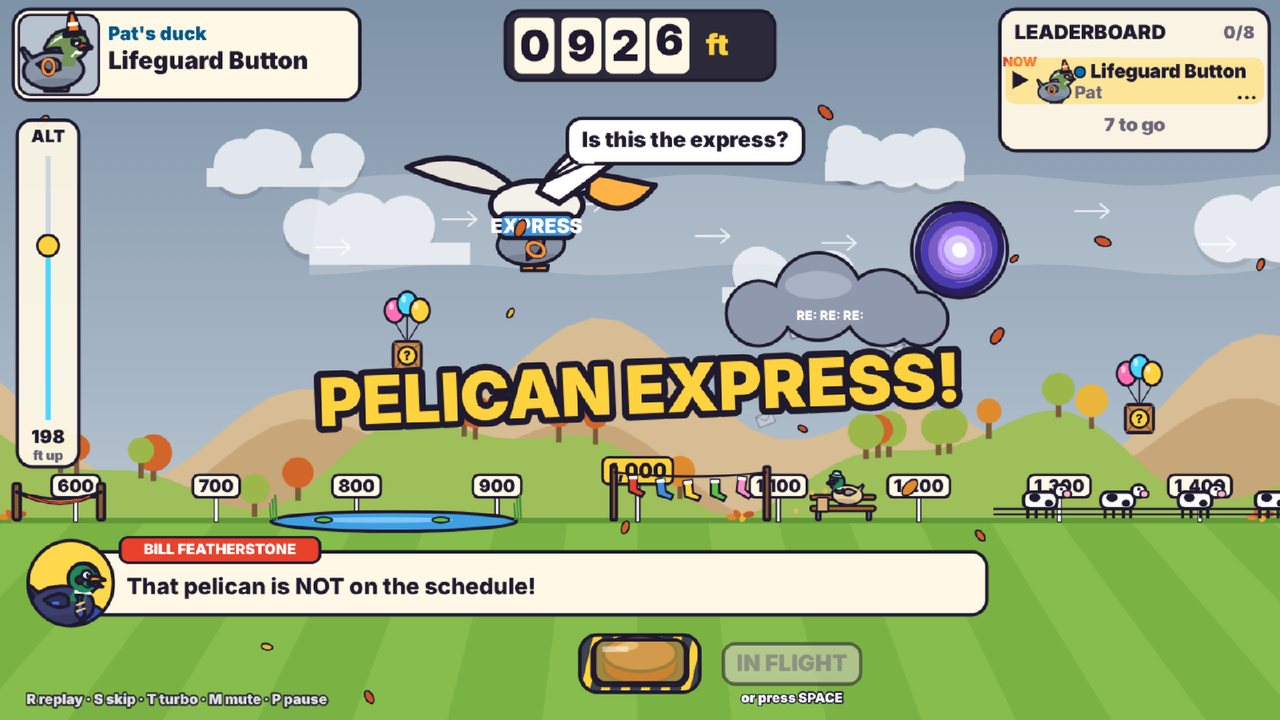
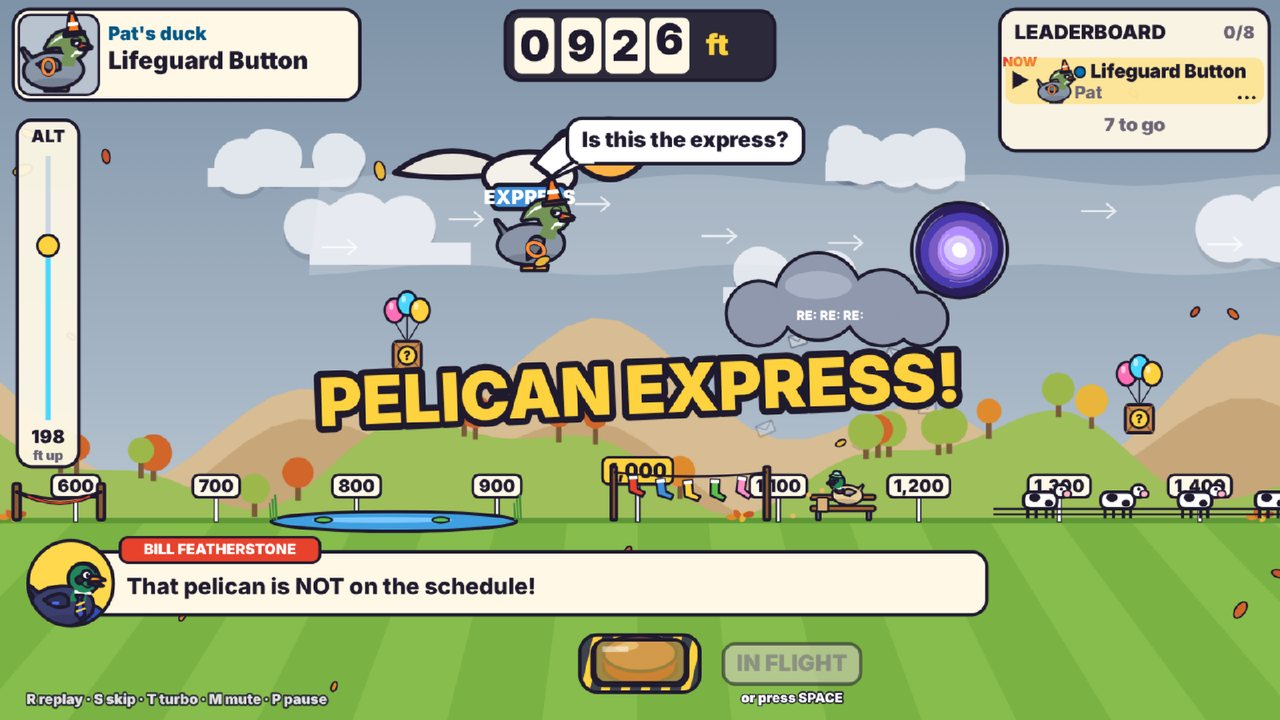
Fix bugs from an independent review; adaptive quality; shouty scream bubble
- R during a live flight no longer discards the landing (replay waits until it lands)
- Late player added while a bonus shot is loaded now flies, and the bonus isn't repeated
- Putting back a removed player restores the same duck instead of a '(2)' copy
- Removing the on-deck duck during a result no longer cuts the result short
- Importing data mid-show returns to the title instead of a frozen screen
- The first countdown beep no longer stacks several times
- Turbo pressed mid-countdown still aims the barrel at the rolled angle
- Bill's pick is fixed once announced (late adds/removals can't change it)
- Visiting the Waddle of Fame no longer makes the next show skip its podium
- Adaptive quality: lower internal resolution and fewer particles when frames drop
- Scream bubble no longer grows a giant starburst; refreshed README screenshots

Claude-Session: https://claude.ai/code/session_01L5ntNDsEwxRWUo6xWcqN4w

diff --git a/index.html b/index.html
@@ -3658,6 +3658,7 @@ function importDataFromText(text) {
     S.race = null;
     Toast.show('Imported ' + n + ' sections. ' + S.history.length + ' races in history.');
     if (cur && cur.stage !== 'done') Toast.show('Imported. A saved show can be resumed from the title screen.', 2600);
+    Modal.close(); go('title');
     return true;
   } catch (e) { Toast.show('Import failed: ' + e.message, 3000); return false; }
 }
@@ -3917,17 +3918,20 @@ function addLatePlayer(name, team) {
   const R = S.race;
   if (!R) return;
   const key = personKey(name);
+  const loadedNow = S.screen === 'launch' && L.q && R.queue[R.idx] === L.q && L.phase !== 'idle' && L.phase !== 'result';
+  const insertAt = () => { const fb = R.queue.findIndex((q, i) => q.bonus && i >= R.idx); return fb >= 0 ? Math.max(fb, R.idx + (loadedNow ? 1 : 0)) : R.queue.length; };
+  // putting back someone who was removed by mistake: same person, same duck
+  const back = R.players.findIndex(p => p.key === key && p.out && !R.results[p.key]);
+  if (back >= 0) { R.players[back].out = false; R.queue.splice(insertAt(), 0, { p: back, s: 0 }); saveRace(); Toast.show(R.players[back].name + "'s duck is back in and will launch last!", 2600); return; }
   let nm = name, i = 2;
   while (R.players.some(p => p.key === personKey(nm))) nm = name + ' (' + (i++) + ')';
-  if (R.players.length >= 40) { Toast.show('The cannon tops out at 40 ducks.'); return; }
+  if (activePlayers().length >= 40) { Toast.show('The cannon tops out at 40 ducks.'); return; }
   const rer = loadRerolls(R.day);
   const pl = makePlayer(nm, team, rer[personKey(nm)] || 0, nameCtx(null), R.day);
   pl.late = true;
   R.players.push(pl);
   // launches last among the main round (before any bonus shots)
-  const firstBonus = R.queue.findIndex(q => q.bonus);
-  const entry = { p: R.players.length - 1, s: 0 };
-  if (firstBonus >= 0) R.queue.splice(Math.max(firstBonus, R.idx), 0, entry); else R.queue.push(entry);
+  R.queue.splice(insertAt(), 0, { p: R.players.length - 1, s: 0 });
   if (!S.roster.some(p => personKey(p.name) === personKey(nm))) { S.roster.push({ id: 'p' + hex8(hash(nm, Date.now())), name: nm, team, checked: true, ammo: 0 }); saveRoster(); }
   rememberNames(R.day, [pl.duck.name]);
   if (S.screen === 'reveal') { RV.flipped.push(true); RV.flipAt.push(0); }
@@ -3946,7 +3950,7 @@ function removePlayer(pi) {
   const R = S.race;
   if (!canRemoveNow(pi)) return false;
   const pl = R.players[pi];
-  const wasLoaded = R.queue[R.idx] && R.queue[R.idx].p === pi;
+  const wasLoaded = S.screen === 'launch' && L.q && R.queue[R.idx] === L.q && L.q.p === pi && (L.phase === 'intro' || L.phase === 'ladder' || L.phase === 'armed');
   R.queue = R.queue.slice(0, R.idx).concat(R.queue.slice(R.idx).filter(q => q.p !== pi));
   pl.out = true;
   saveRace();
@@ -4033,6 +4037,7 @@ function teamOfDay(R) {
   return Object.assign(best, { name: teams()[best.team].name, color: teams()[best.team].color, shape: teams()[best.team].shape });
 }
 function billPickKey(R) {
+  if (R.pick !== undefined) return R.pick && R.players.some(p => p.key === R.pick && !p.out) ? R.pick : null;
   const act = R.players.filter(p => !p.out);
   if (act.length < 3) return null;
   return act[hash(R.seed, 'billpick') % act.length].key;
@@ -4123,6 +4128,9 @@ function loadDuck(first) {
   const R = S.race, q = curQ();
   if (!q) { toResults(); return; }
   const go2 = () => {
+    const q2 = curQ();
+    if (!q2) { if (standings().length) { L.phase = 'idle'; setBig('SEE RESULTS', true); } return; }
+    const q = q2;
     L.q = q; L.pi = q.p; L.pl = R.players[q.p];
     L.tl = null; L.pb = null; L.result = null; L.replay = false; L.photo = false; L.drum = false; L.fuseOut = false; L.boomed = false;
     L.gauge = { a: 45, p: 85, locked: false, lockAt: 0 };
@@ -4245,6 +4253,7 @@ function rateAt(pb, t) { for (const s of pb.segs) if (t < s.b) return s.r; retur
 
 function startFlight(replay) {
   const tl = L.tl;
+  if (!replay) { L.barrel = tl.angle; L.gauge.locked = true; L.gauge.a = tl.angle; L.gauge.p = Math.round(tl.power * 100); }
   const lead = leaderEntry();
   L.photo = !replay && lead && S.race.players.length > 1 && Math.abs(tl.final - lead.dist) < 25 && lead.pl.key !== L.pl.key;
   if (replay) L.photo = L.result && L.result.photo;
@@ -4464,6 +4473,8 @@ function skipFlight() {
 }
 function replayFlight() {
   if (!L.tl || !(L.phase === 'idle' || L.phase === 'result' || L.phase === 'flight')) return;
+  // a duck that's still in the air hasn't been scored yet: replay only once it has landed
+  if (L.phase === 'flight' && !L.replay) { Toast.show('Replay is ready once this duck lands'); return; }
   if (L.phase === 'result') { setPhase('idle'); }
   Caps.reset(); Particles.clear();
   L.cam = { cx: 30, gy: GROUND_Y, z: 5.2 };
@@ -4505,7 +4516,6 @@ function updateLaunch(dt) {
       const T = 3 * pace;
       const tick = Math.floor(L.pt / (T / 3));
       if (tick !== L.ticks && tick < 3) { L.ticks = tick; SFX.play('count', 3 - tick); }
-      if (L.pt < 0.05) L.ticks = -1;
       const lockAt = T * 2 / 3 + 0.15 * pace;
       if (!L.gauge.locked && L.pt >= lockAt) { L.gauge.locked = true; L.gauge.a = L.tl.angle; L.gauge.p = Math.round(L.tl.power * 100); L.barrelFrom = L.barrel; L.lockT = L.pt; SFX.play('crank', 3); }
       if (L.gauge.locked) L.barrel = lerp(L.barrelFrom, L.tl.angle, easeInOut((L.pt - L.lockT) / 0.3));
@@ -4824,8 +4834,13 @@ function drawScream(ctx, x, y, text, rt) {
   const w = ctx.measureText(text).width + 40, h = 58;
   const bx = clamp(x + 40, 20, 1480 - w), by = clamp(y - 120, 130, 760);
   ctx.beginPath(); ctx.moveTo(bx + 30, by + h - 4); ctx.lineTo(clamp(x + 10, bx, bx + w), by + h + 30); ctx.lineTo(bx + 60, by + h - 4); ctx.closePath(); fillStroke(ctx, '#fff', 5);
-  burstPath(ctx, bx + w / 2, by + h / 2, w * 0.56, w * 0.48, 14, rt * 2); ctx.fillStyle = '#fff'; ctx.fill();
-  rr(ctx, bx, by, w, h, 20); fillStroke(ctx, '#ffffff', 5);
+  // a shouty bubble: small spikes along the edges, red outline
+  ctx.beginPath();
+  const spikes = Math.max(6, Math.round(w / 34));
+  for (let i = 0; i <= spikes; i++) { const xx = bx + (w * i) / spikes; ctx.lineTo(xx, by - (i % 2 ? 12 : 2)); }
+  for (let i = spikes; i >= 0; i--) { const xx = bx + (w * i) / spikes; ctx.lineTo(xx, by + h + (i % 2 ? 12 : 2)); }
+  ctx.closePath(); fillStroke(ctx, '#ffffff', 5, '#e8412c');
+  rr(ctx, bx, by, w, h, 20); ctx.fillStyle = '#ffffff'; ctx.fill();
   txt(ctx, text, bx + w / 2, by + h / 2 + 2, { px: 34, color: '#e8412c', sw: 0 });
   ctx.restore();
 }
@@ -5076,7 +5091,7 @@ function drawSidebar(ctx) {
 function go(screen) {
   S.screen = screen;
   if (screen !== 'roster') Roster.hide();
-  if (screen === 'title') { S.race = null; refreshWorld(); setBig(savedShow() ? 'RESUME SHOW' : 'START', true); Caps.reset(); Particles.clear(); }
+  if (screen === 'title') { RS.back = false; S.race = null; refreshWorld(); setBig(savedShow() ? 'RESUME SHOW' : 'START', true); Caps.reset(); Particles.clear(); }
   if (screen === 'roster') { refreshWorld(); Roster.show(); }
   if (screen === 'reveal') startReveal();
   if (screen === 'launch') { /* loadDuck handles the big button */ }
@@ -5192,6 +5207,7 @@ function updateReveal(dt) {
       RV.fc = 0; SFX.play('ding');
       Caps.say('Pond Forecast: ' + conditionsSummary(S.cond) + '. Same for every duck today!', { prio: 1 });
       const pk = billPickKey(R), pp = pk && R.players.find(p => p.key === pk);
+      R.pick = pk || null; saveRace();
       if (pp) say('billPick', { player: pp.name, duck: pp.duck.name }, { prio: 1, delay: 2.4 });
     }
   }
@@ -5598,13 +5614,16 @@ const CV = document.getElementById('cv');
 const CTX = CV.getContext('2d');
 const STAGE = document.getElementById('stage');
 let VIEW = { scale: 1, ox: 0, oy: 0, k: 1 };
+// Adaptive quality: if frames run slow (weak laptop, busy screen share), render at a lower internal
+// resolution and use fewer particles; step back up after a long smooth stretch.
+const QUAL = { k: 1, slow: 0, fast: 0 };
 function resize() {
   const w = window.innerWidth, h = window.innerHeight;
   const scale = Math.min(w / 1920, h / 1080);
   const ox = (w - 1920 * scale) / 2, oy = (h - 1080 * scale) / 2;
   STAGE.style.transform = 'translate(' + ox + 'px,' + oy + 'px) scale(' + scale + ')';
   const dpr = window.devicePixelRatio || 1;
-  const k = clamp(scale * dpr, 0.5, 1.25);
+  const k = Math.max(0.42, clamp(scale * dpr, 0.5, 1.25) * QUAL.k);
   const bw = Math.round(1920 * k), bh = Math.round(1080 * k);
   if (CV.width !== bw || CV.height !== bh) { CV.width = bw; CV.height = bh; }
   VIEW = { scale, ox, oy, k: bw / 1920 };
@@ -5687,6 +5706,12 @@ function frame(now) {
   lastNow = now;
   const dt = Math.min(0.05, Math.max(0, raw));
   if (raw > 0) S.fps = lerp(S.fps, 1 / Math.max(raw, 0.001), 0.05);
+  if (raw > 0 && raw < 0.4 && !document.hidden) {
+    if (raw > 1 / 40) QUAL.slow += raw; else QUAL.slow = Math.max(0, QUAL.slow - raw * 0.5);
+    QUAL.fast = raw < 1 / 54 ? QUAL.fast + raw : 0;
+    if (QUAL.slow > 1.5 && QUAL.k > 0.55) { QUAL.k = Math.max(0.55, QUAL.k - 0.15); QUAL.slow = 0; QUAL.fast = 0; Particles.max = QUAL.k < 0.8 ? 150 : 260; resize(); }
+    else if (QUAL.fast > 25 && QUAL.k < 1) { QUAL.k = Math.min(1, QUAL.k + 0.15); QUAL.fast = 0; Particles.max = QUAL.k < 0.8 ? 150 : 260; resize(); }
+  }
   S.rt += dt;
   if (!S.paused) { S.time += dt; try { update(dt); } catch (err) { console.error(err); } Particles.update(dt); Shake.update(dt); }
   Caps.update(); Iris.update(dt);

diff --git a/README.md b/README.md
@@ -36,6 +36,8 @@ Your roster, settings and Waddle of Fame are saved in the browser for whichever 
 4. Click once before the call starts. Browsers only allow audio after the first click.
 5. Turn on **Auto-advance** if you want it to run hands-free, or leave it off and banter between ducks.
 
+If the laptop struggles while screen-sharing, the game notices the dropped frames and quietly renders at a lower internal resolution, then steps back up when things are smooth again. You don't need to change anything.
+
 ## The show
 
 There are five screens, and the **big red button** (or **Space**) is the only control you need.
